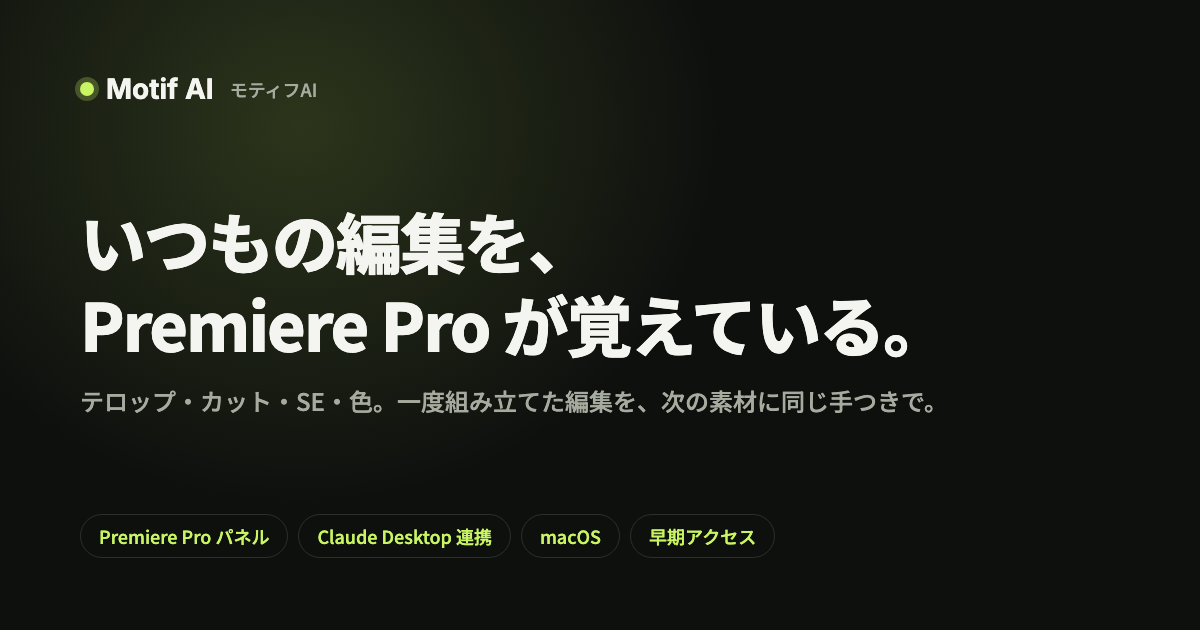
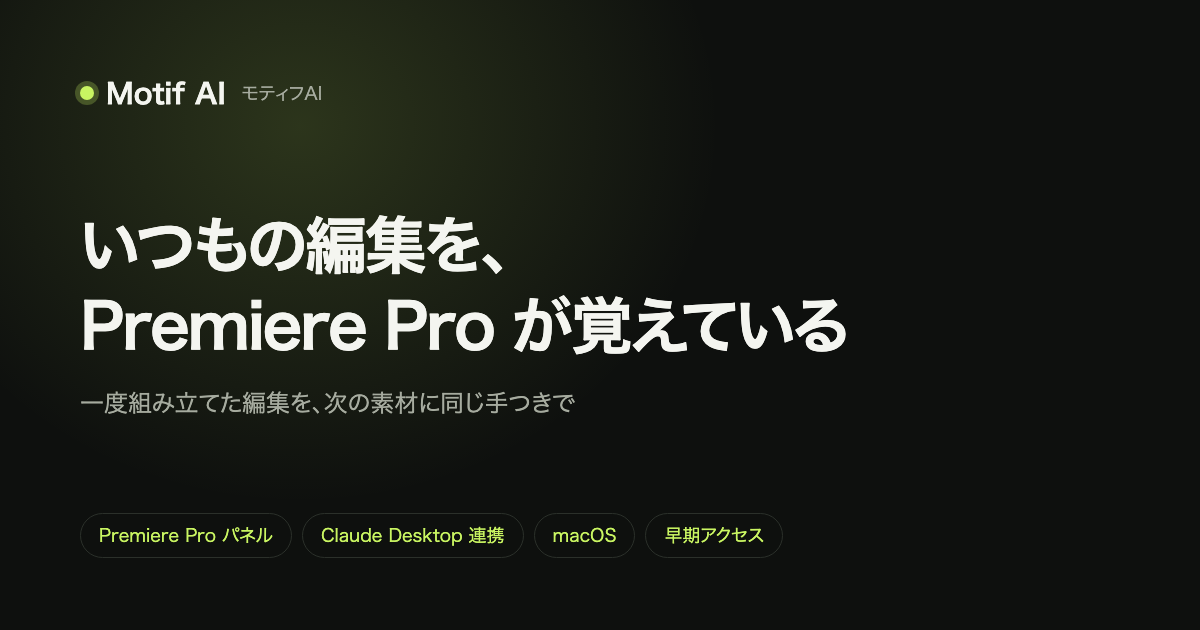
Match the share image to the page: same type, no trailing 。
Claude-Session: https://claude.ai/code/session_01BR1dJWtX3Xvsi6KV5WNNK8

diff --git a/og-template.html b/og-template.html
@@ -1,19 +1,19 @@
 <!DOCTYPE html><html lang="ja"><head><meta charset="utf-8">
-<link rel="stylesheet" href="https://fonts.googleapis.com/css2?family=Inter:wght@600;700&family=Noto+Sans+JP:wght@500;800&display=swap">
+<link rel="stylesheet" href="https://fonts.googleapis.com/css2?family=Geist:wght@500;600;700&family=Noto+Sans+JP:wght@500;700;900&display=swap">
 <style>
 html,body{margin:0}
-body{width:1200px;height:630px;background:#0e100e;color:#f4f5f0;font-family:"Noto Sans JP",sans-serif;position:relative;overflow:hidden}
+body{width:1200px;height:630px;background:#0e100e;color:#f4f5f0;font-family:"Geist","Noto Sans JP",sans-serif;font-feature-settings:"palt" 1;position:relative;overflow:hidden}
 .glow{position:absolute;left:-10%;top:-40%;width:70%;height:120%;background:radial-gradient(closest-side,rgba(201,245,98,.16),transparent)}
 .wrap{position:absolute;inset:0;padding:72px 80px;display:flex;flex-direction:column;justify-content:space-between}
-.mark{display:flex;align-items:center;gap:12px;font-family:Inter,sans-serif;font-weight:700;font-size:28px}
+.mark{display:flex;align-items:center;gap:12px;font-family:Geist,sans-serif;font-weight:700;font-size:28px}
 .mark .dot{width:14px;height:14px;border-radius:50%;background:#c9f562;box-shadow:0 0 0 5px rgba(201,245,98,.25)}
 .mark .ja{font-family:"Noto Sans JP";font-weight:500;font-size:18px;color:#a6ab9f;margin-left:4px}
-h1{margin:0;font-size:66px;line-height:1.25;letter-spacing:-.03em;font-weight:800}
+h1{margin:0;font-size:62px;line-height:1.3;letter-spacing:-.035em;font-weight:700}
 p{margin:18px 0 0;font-size:24px;color:#a6ab9f;line-height:1.6}
 .tags{display:flex;gap:10px}
 .tag{border:1px solid #2b302a;border-radius:999px;padding:8px 18px;font-size:18px;color:#c9f562;font-weight:500}
 </style></head><body><div class="glow"></div><div class="wrap">
 <div class="mark"><span class="dot"></span>Motif AI<span class="ja">モティフAI</span></div>
-<div><h1>いつもの編集を、<br>Premiere Pro が覚えている。</h1><p>テロップ・カット・SE・色。一度組み立てた編集を、次の素材に同じ手つきで。</p></div>
+<div><h1>いつもの編集を、<br>Premiere Pro が覚えている</h1><p>一度組み立てた編集を、次の素材に同じ手つきで</p></div>
 <div class="tags"><span class="tag">Premiere Pro パネル</span><span class="tag">Claude Desktop 連携</span><span class="tag">macOS</span><span class="tag">早期アクセス</span></div>
 </div></body></html>
